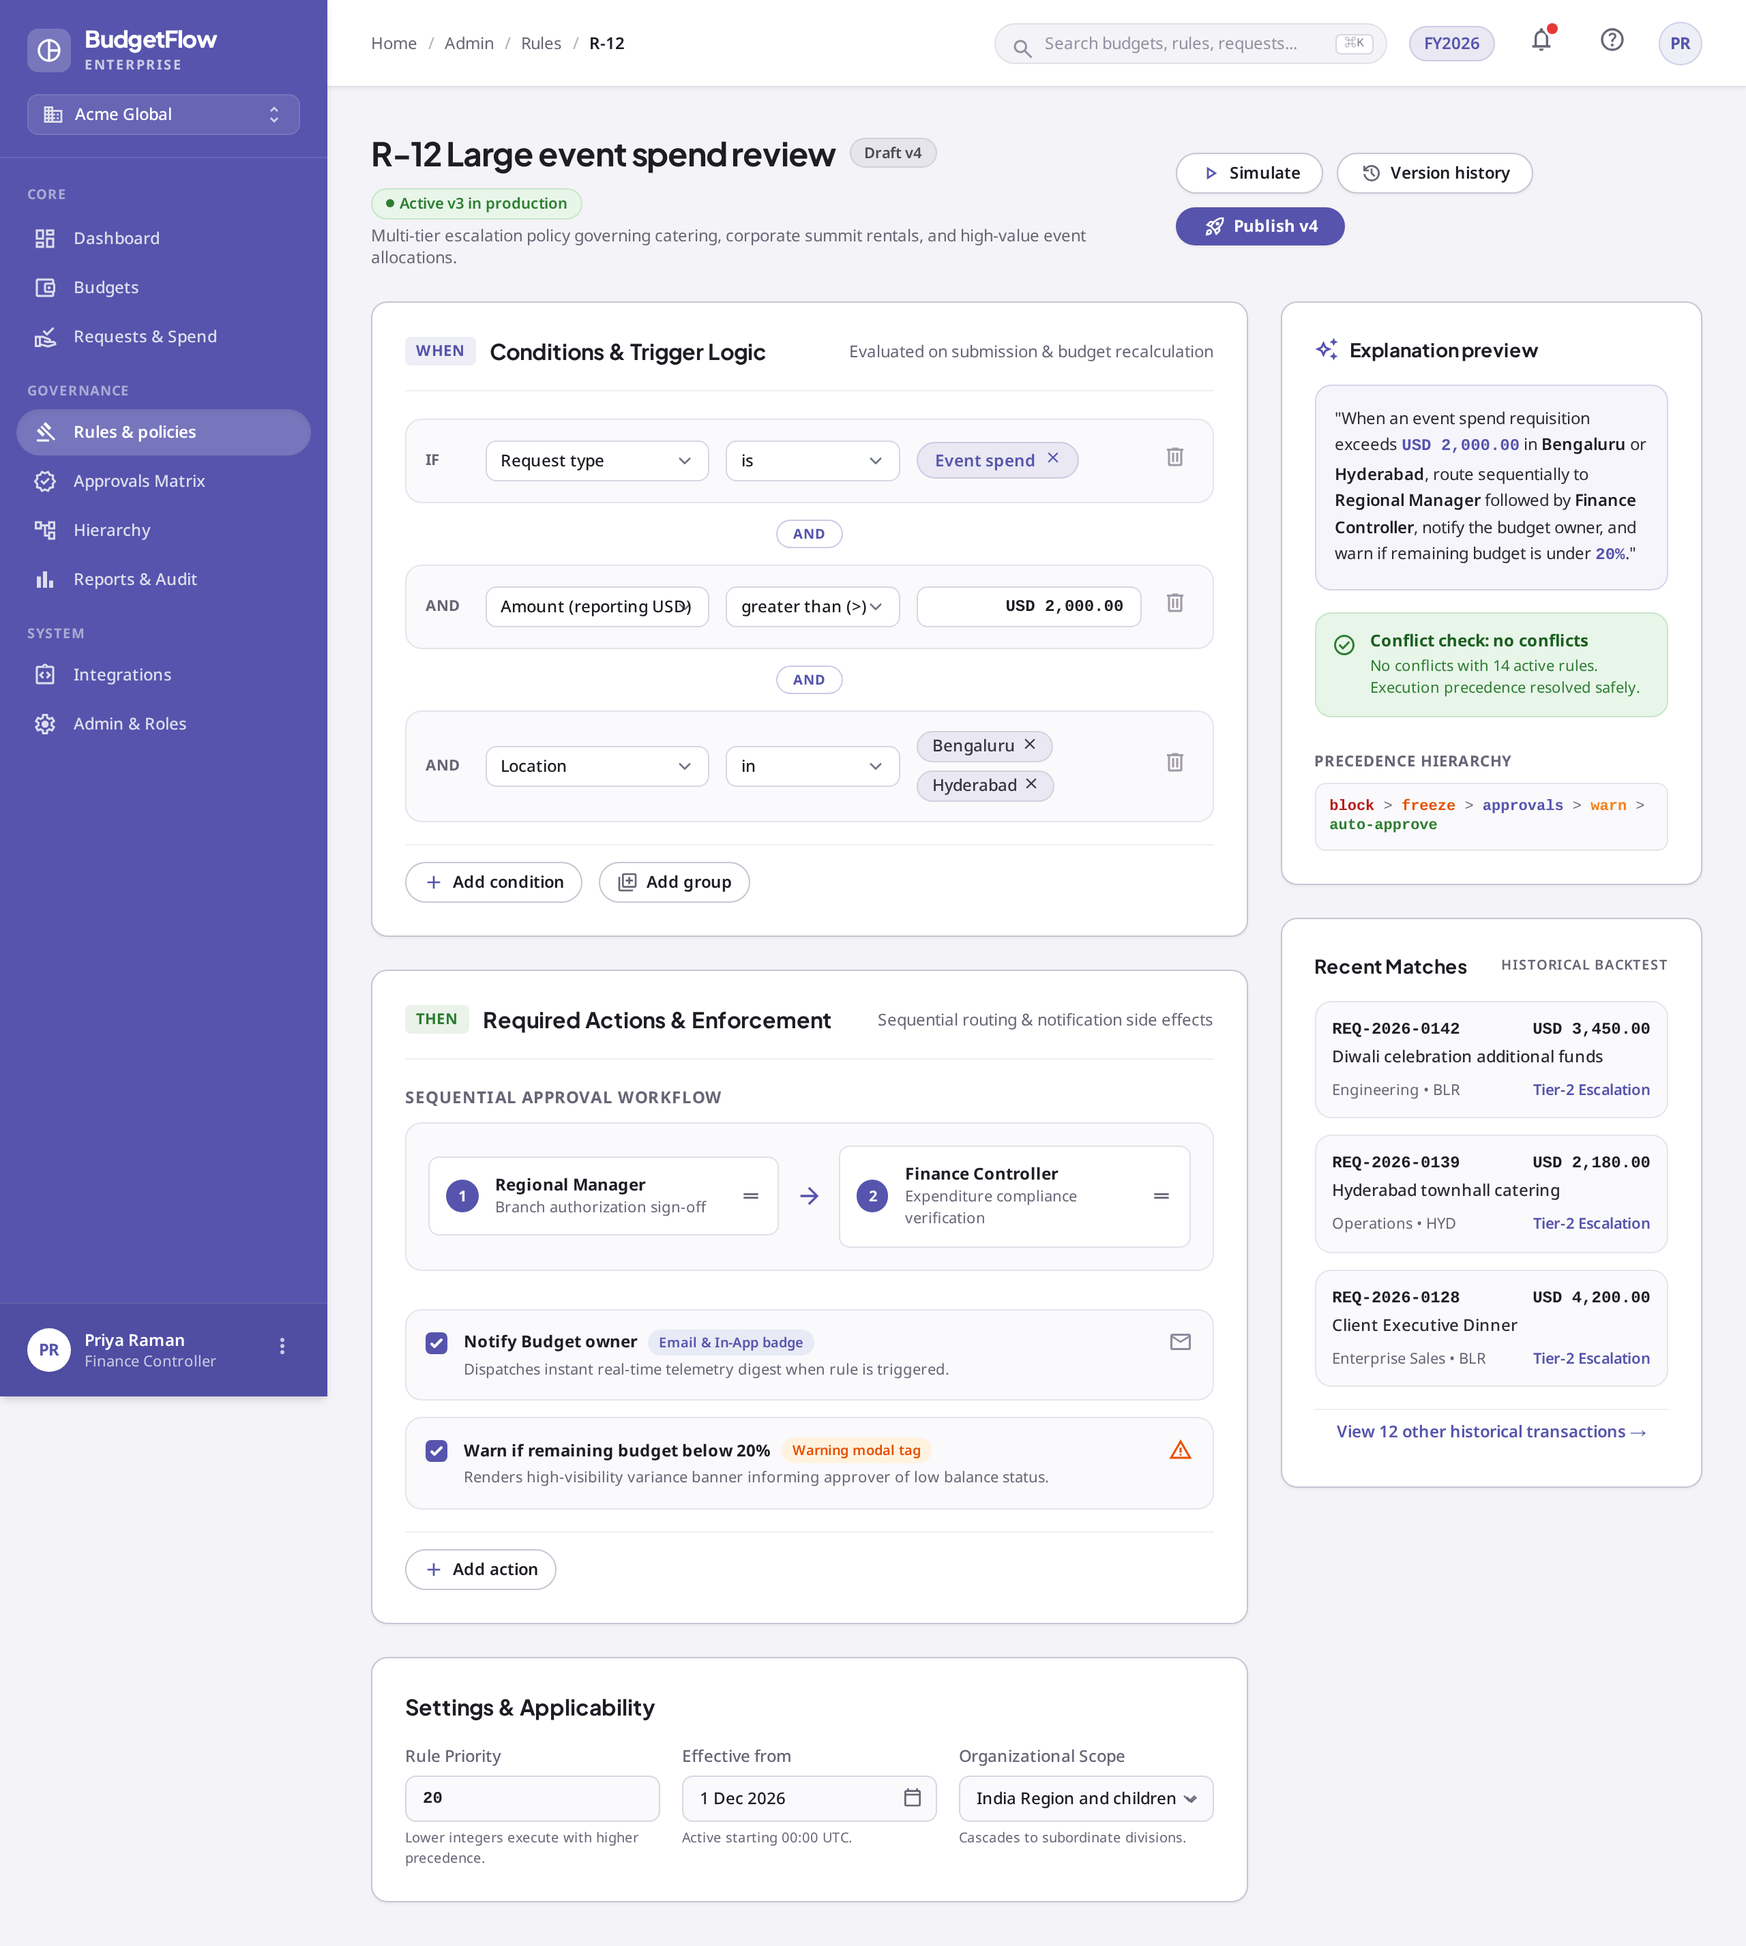
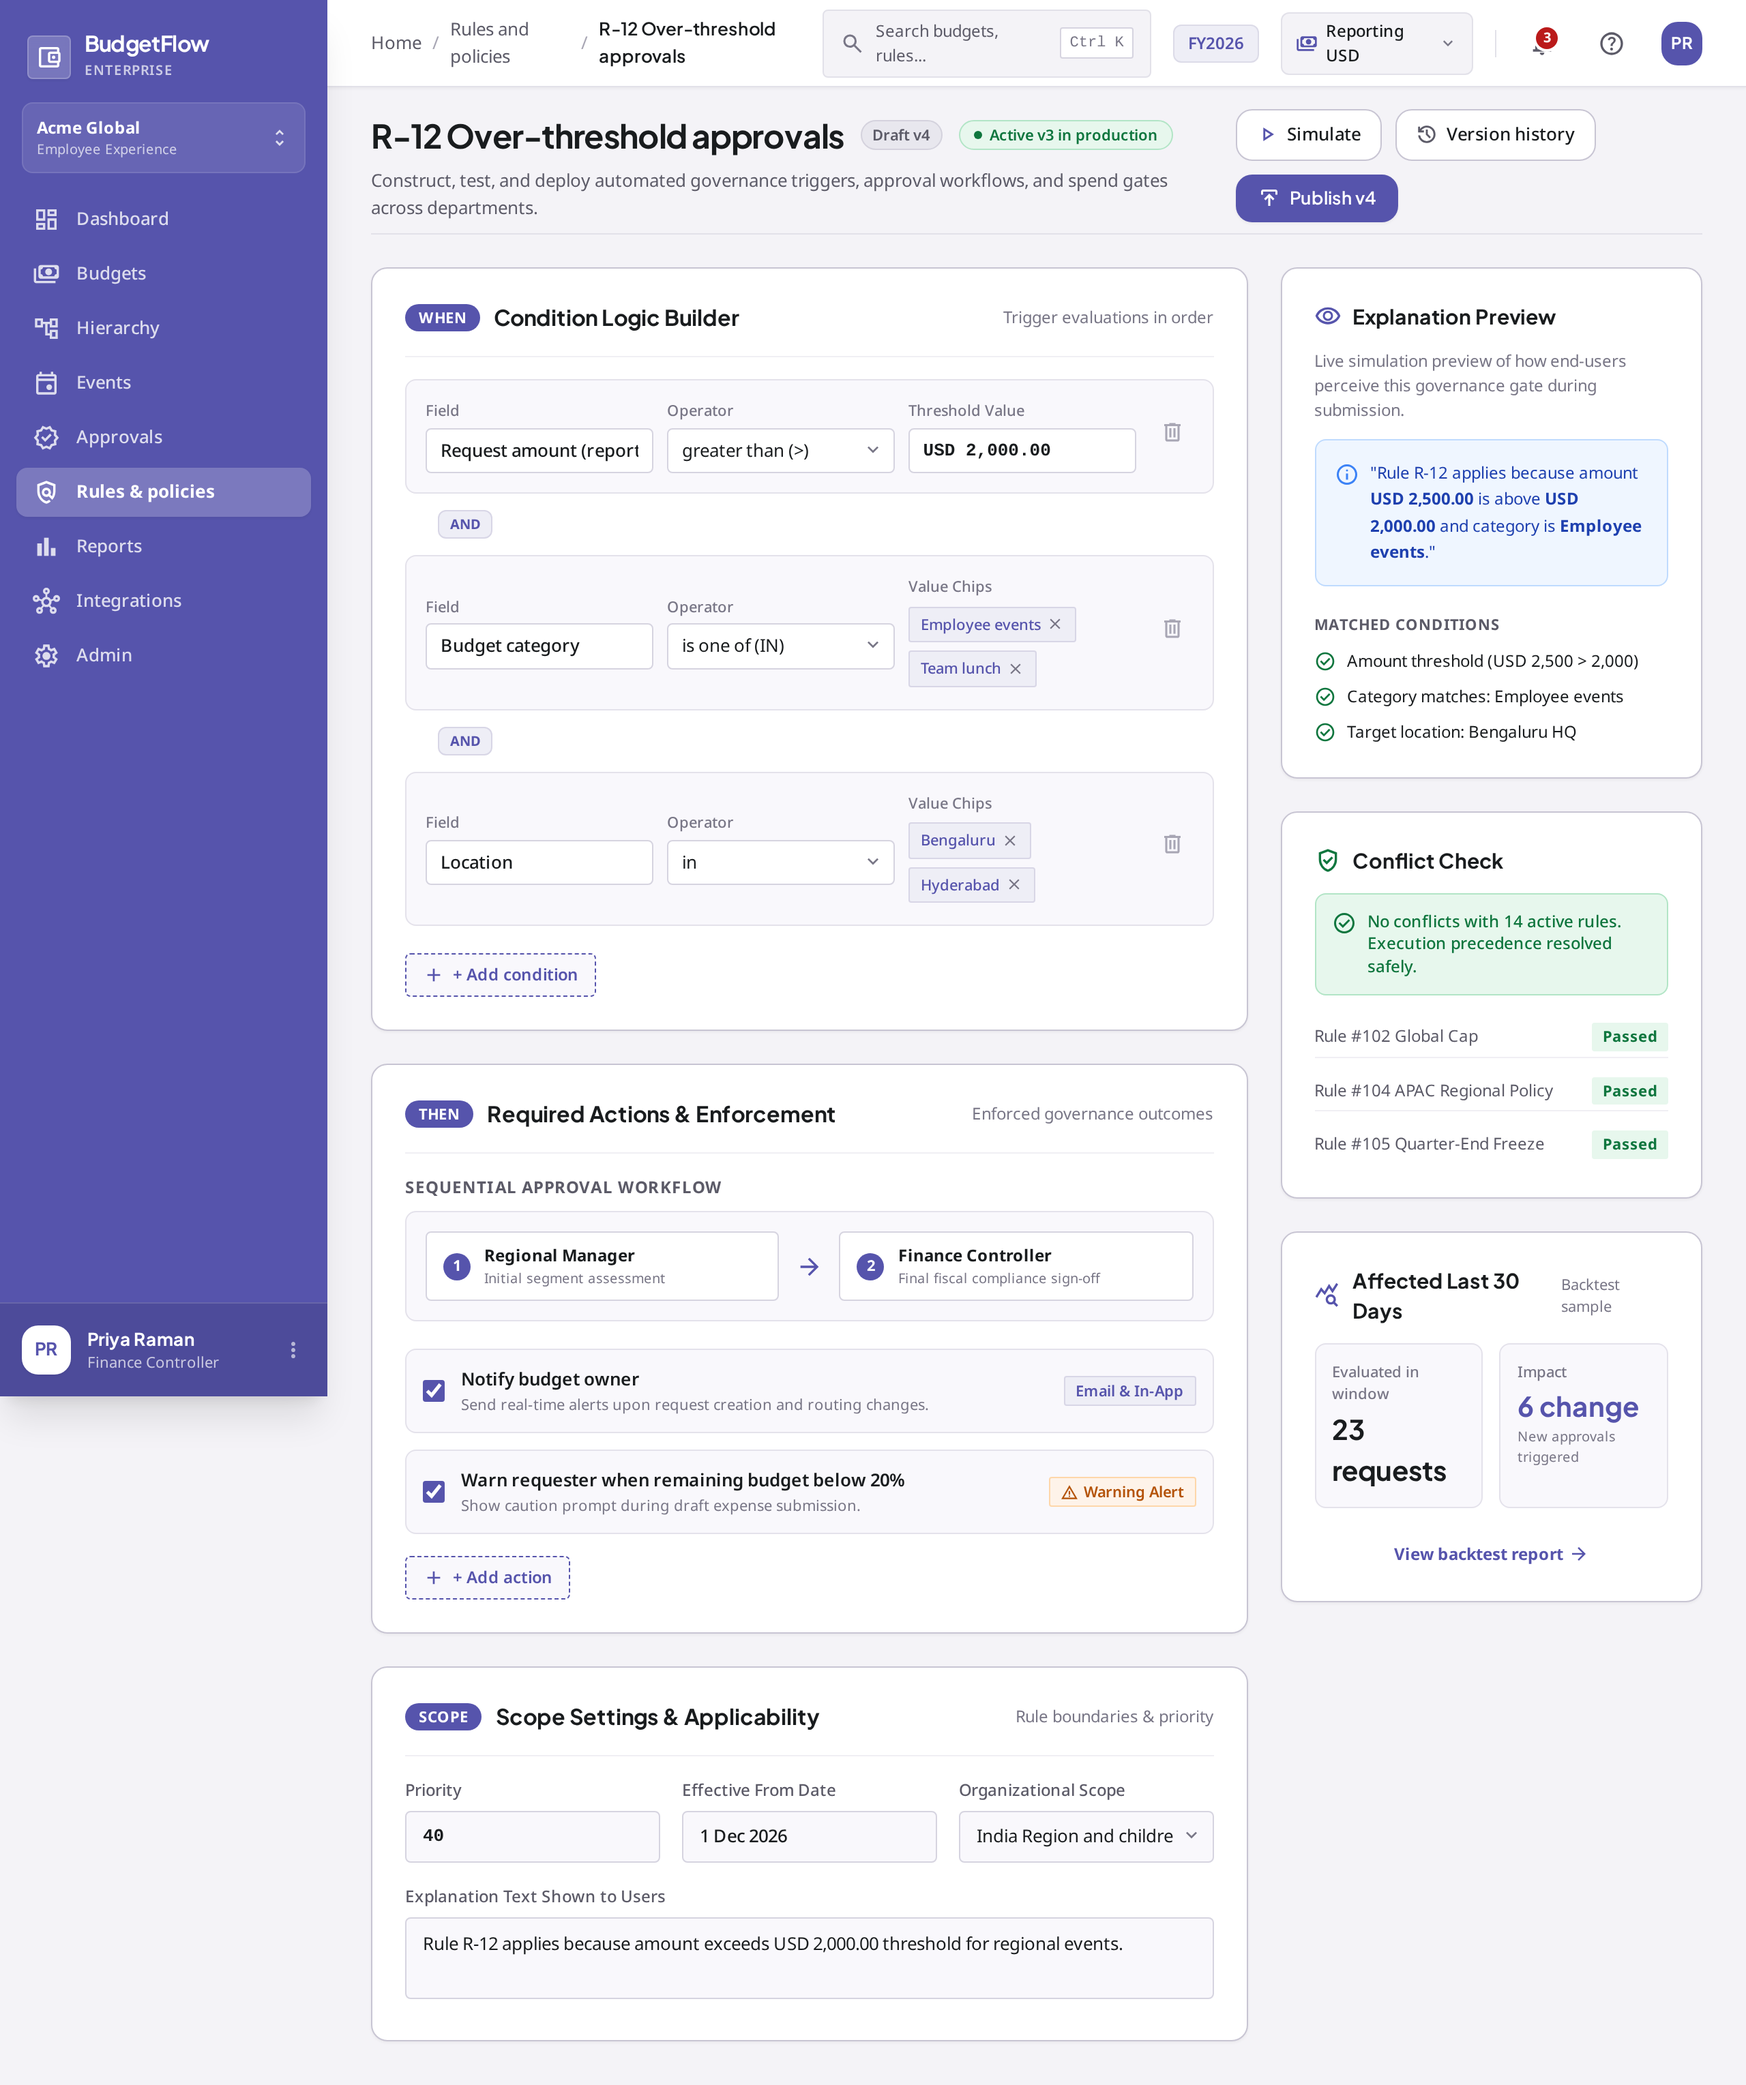
docs(ux): align start-screen exports with their specs
Two sessions exported into the same folders, so the 022, 069 and 088 defaults came from different Stitch screens than their states and specs. Restore the defaults the specs describe, drop the duplicate 069 simulation export, and point 115 at the screen its images came from.

diff --git a/docs/ux/screens/115-employee-dashboard.md b/docs/ux/screens/115-employee-dashboard.md
@@ -5,7 +5,7 @@ Status: proposed - awaiting user review. Light theme only. Start screen 10 (todo
 ## Design
 | State | Image | Stitch screen |
 | --- | --- | --- |
-| default | `design/stitch/115-employee-dashboard/default--desktop--light.png` | `aa20c4f997c44ee4bc67a99eba9db261` |
+| default | `design/stitch/115-employee-dashboard/default--desktop--light.png` | `b42ff3f7211c4f85bd165d75d9aa1e8f` |
 | blocked (frozen and zero budgets) | `blocked--desktop--light.png` | `d71c1e3f197e4e8eb829f64c7bdd171f` |
 
 ## Purpose
